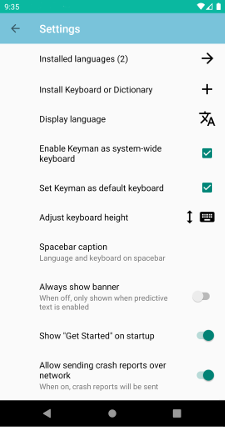
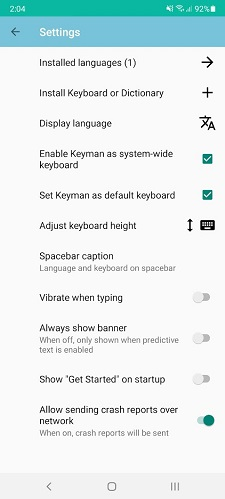
auto: Keyman for android help deployment

diff --git a/products/android/15.0/basic/config/index.md b/products/android/15.0/basic/config/index.md
@@ -47,6 +47,9 @@ Click on this to [adjust the keyboard height](adjust-keyboard-height).
 ## Spacebar Caption
 Click on this to [change the displayed keyboard name](spacebar-caption) on the spacebar.
 
+## Vibrate When Typing
+When enabled, the Keyman keyboard will provide haptic feedback (vibrate) when the user presses a key and generates output. The default preference is off.
+
 ## Always show banner
 This toggle is reserved for future features. When off, the text suggestion banner is only displayed when
 the dictionary is enabled. The language associated with the keyboard must match the language associated with
